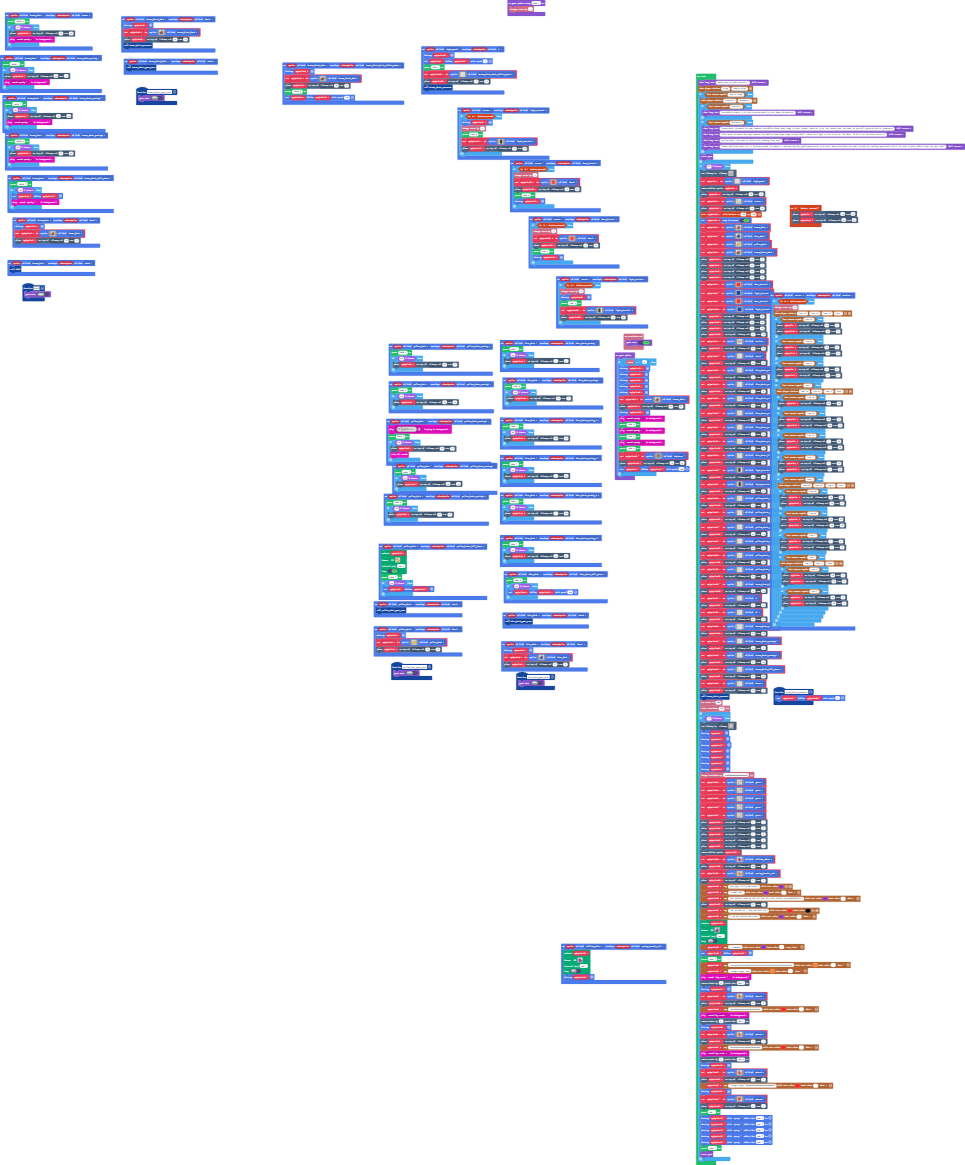
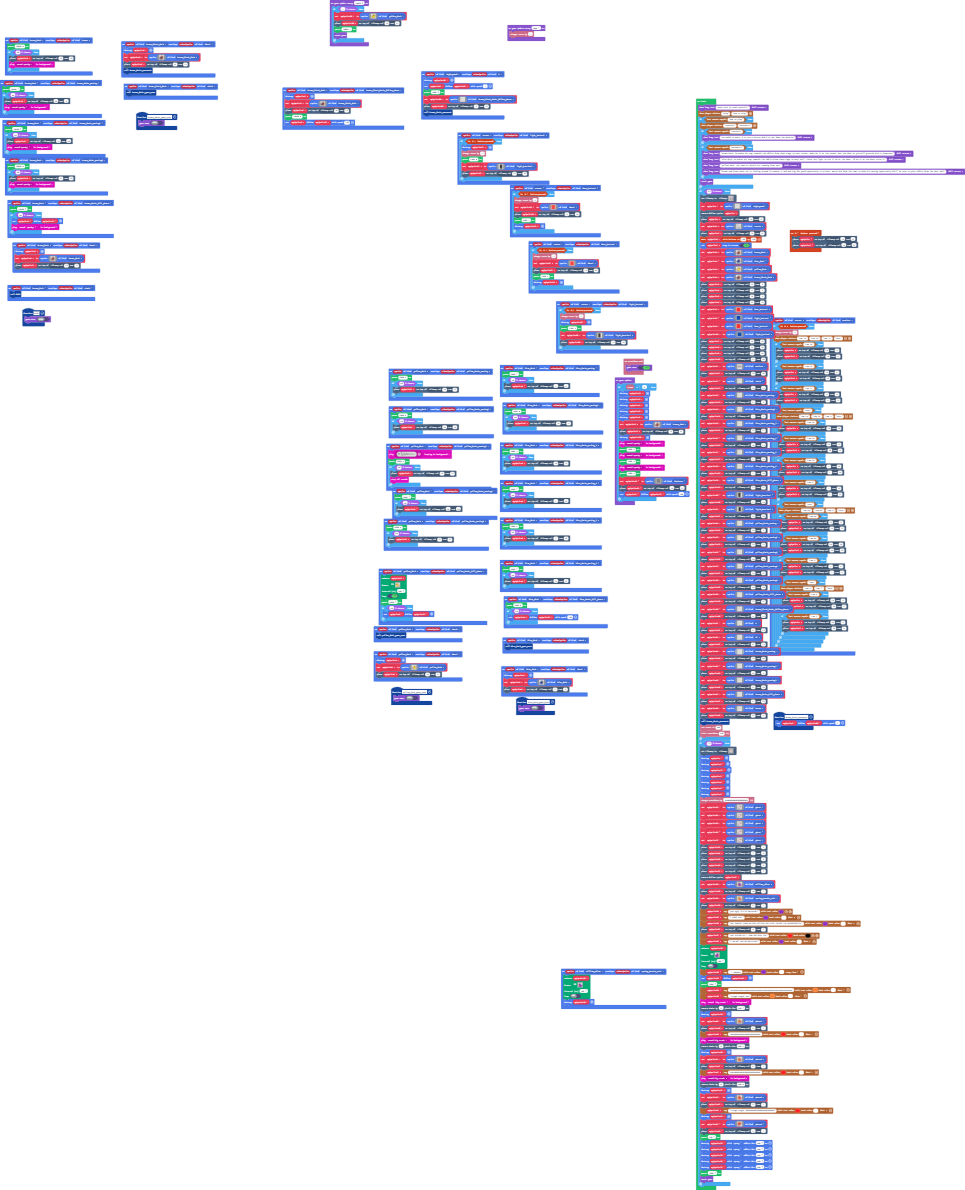
added golden freddy and the game no longer is imposible!

Changed region(s): [[0.2798, 0.0, 1.0, 0.9888], [0.0, 0.0, 0.2487, 0.2781], [0.5596, 0.8034, 0.6839, 0.8652]]

diff --git a/main.ts b/main.ts
@@ -45,6 +45,7 @@ namespace SpriteKind {
     export const brown_ducks_kill_phase = SpriteKind.create()
     export const brown = SpriteKind.create()
     export const darkness = SpriteKind.create()
+    export const golden_duck = SpriteKind.create()
 }
 function blue_duck_game_over () {
     game.gameOver(false)
@@ -674,6 +675,7 @@ sprites.onOverlap(SpriteKind.yellow_duck, SpriteKind.yellow_ducks_moving2, funct
         tiles.placeOnTile(mySprite5, tiles.getTileLocation(39, 29))
     }
 })
+let mySprite50: Sprite = null
 let mySprite49: Sprite = null
 let mySprite22: Sprite = null
 let mySprite23: Sprite = null
@@ -1476,7 +1478,7 @@ if (Math.percentChance(85)) {
         `, SpriteKind.brown)
     tiles.placeOnTile(mySprite48, tiles.getTileLocation(16, 3))
     brown_ducks_movement()
-    info.setScore(300)
+    info.setScore(500)
     info.startCountdown(360)
 }
 if (Math.percentChance(15)) {
@@ -2308,4 +2310,29 @@ game.onUpdate(function () {
 })
 game.onUpdateInterval(2000, function () {
     info.changeScoreBy(-1)
+})
+game.onUpdateInterval(10000, function () {
+    if (Math.percentChance(1)) {
+        mySprite50 = sprites.create(img`
+            . . . . . . . . . . b 5 b . . . 
+            . . . . . . . . . b 5 b . . . . 
+            . . . . . . b b b b b b . . . . 
+            . . . . . b b 5 5 5 5 5 b . . . 
+            . . . . b b 5 f f f 5 5 5 f . . 
+            . . . . b 5 5 f f f 5 5 4 c . . 
+            . . . . b 5 5 f f f 5 5 4 4 . . 
+            . b b b 5 5 5 5 5 5 4 4 4 4 4 b 
+            b 5 5 5 b b 5 5 5 4 4 4 4 4 b . 
+            b b 5 5 5 5 b 5 5 5 5 5 5 b . . 
+            c 5 c 5 5 5 5 b 5 5 5 5 5 5 b . 
+            c b 5 c 5 5 5 b 5 5 5 5 5 5 b . 
+            . c 5 5 c c b 5 5 5 5 5 5 5 b . 
+            . . c b 5 5 5 5 5 5 5 5 b b . . 
+            . . . c c c c c c c c b b . . . 
+            . . . . . . . . . . . . . . . . 
+            `, SpriteKind.golden_duck)
+        tiles.placeOnTile(mySprite50, tiles.getTileLocation(18, 37))
+        pause(10000)
+        game.reset()
+    }
 })
